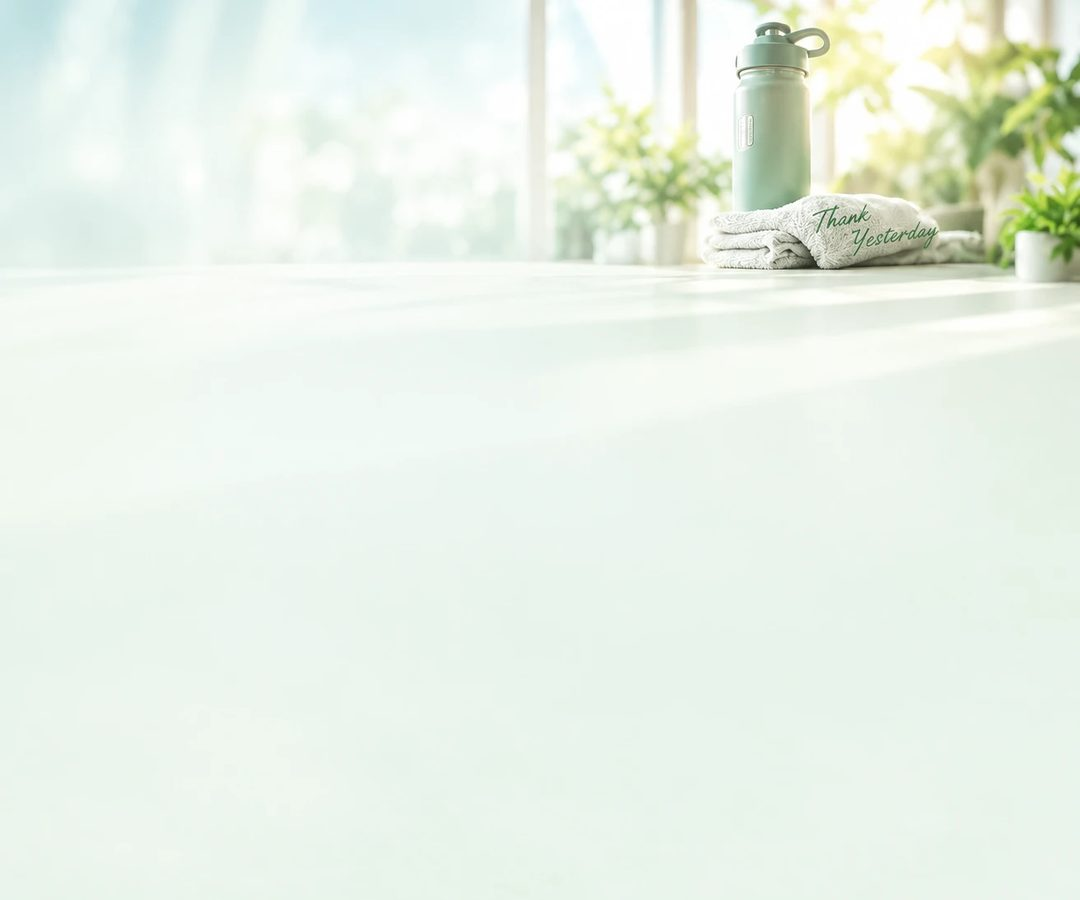
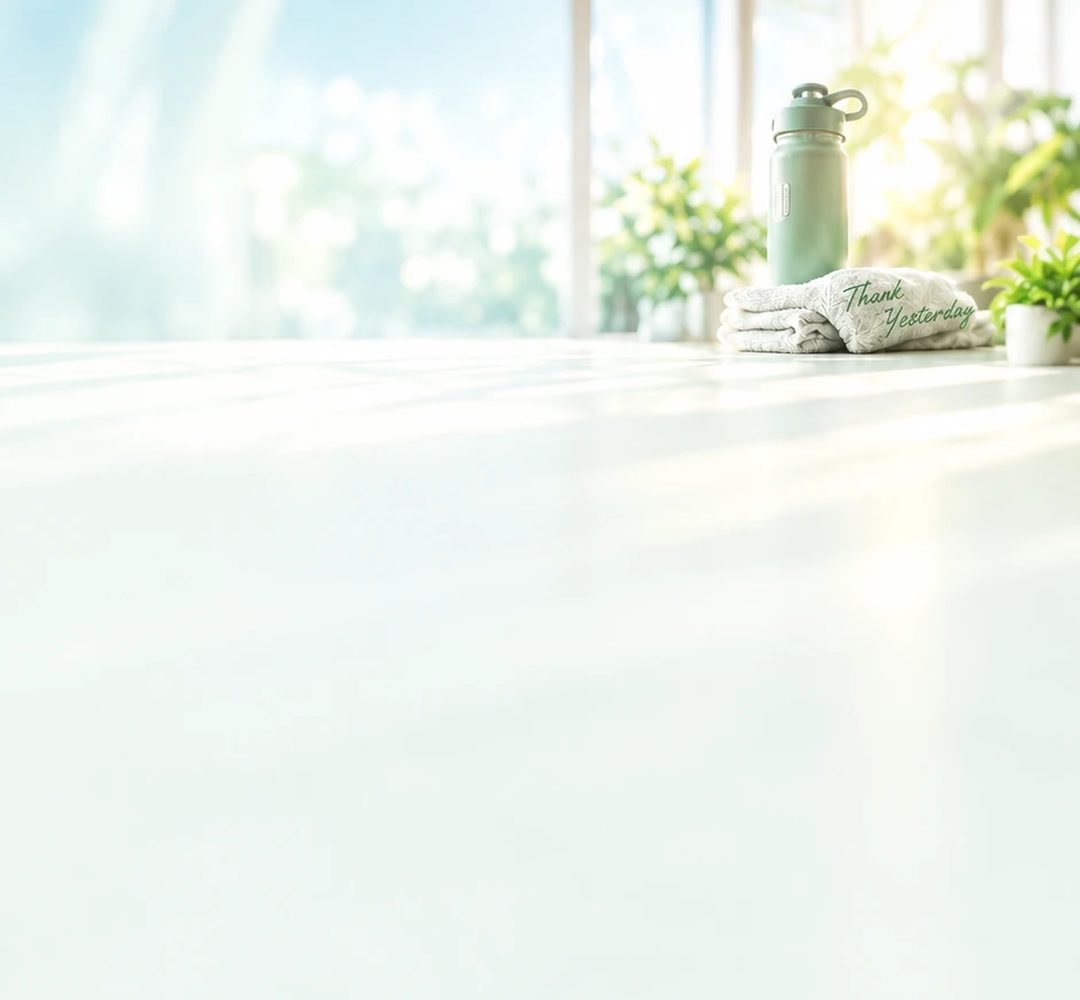
WorkOut Note v2.1.5: グリーンの背景写真を新しい縦長素材に差し替え
- app/img/bg-green.jpg を依頼者提供の縦長写真（1080×1000）に。CSS の位置・被せは据え置き
- 自動テスト 177 件 PASS

diff --git a/docs/html/WorkOutNote_設計書.html b/docs/html/WorkOutNote_設計書.html
@@ -76,7 +76,7 @@ footer{color:var(--ink-2);font-size:12.5px;border-top:1px solid var(--line);padd
 <header class="doc">
   <div class="kicker">WORKOUT NOTE / DESIGN DOCUMENT</div>
   <h1>WorkOut Note 設計書</h1>
-  <div class="meta"><span>対象バージョン：v2.1.4</span><span>作成日：2026-09-17</span><span>関連：構成図・手順書（同フォルダ）、docs/01〜09（経緯と詳細仕様）</span></div>
+  <div class="meta"><span>対象バージョン：v2.1.5</span><span>作成日：2026-09-17</span><span>関連：構成図・手順書（同フォルダ）、docs/01〜09（経緯と詳細仕様）</span></div>
   <p class="lead">このアプリを後から直す人（将来の自分を含む）が、<b>どこに何があり、なぜそう作ったのか</b>を短時間でつかむための文書です。全体像は構成図、操作と運用は手順書を参照してください。</p>
 </header>
 
@@ -376,7 +376,7 @@ store.syncState() / store.onSync(cb) / store.onError(cb) / store.onNotice(cb)</c
   <h2>13. テスト設計</h2>
   <div class="tbl"><table>
     <tr><th>種類</th><th>内容</th></tr>
-    <tr><td>自動テスト</td><td><code>tests/test.html</code> をブラウザで開くと実行（v2.1.4 時点で 177 件、全 PASS）。対象は計算、日付、URL 解析、store の保存・削除・退避、Firestore を模した部品を使った同期（遅れて届くスナップショット、未 ready 時の保存拒否、切替中の保存不可、移行、再接続、ログイン連打など）、設定と Service Worker とルールの整合、記録写真の文字組みと縮小計算。</td></tr>
+    <tr><td>自動テスト</td><td><code>tests/test.html</code> をブラウザで開くと実行（v2.1.5 時点で 177 件、全 PASS）。対象は計算、日付、URL 解析、store の保存・削除・退避、Firestore を模した部品を使った同期（遅れて届くスナップショット、未 ready 時の保存拒否、切替中の保存不可、移行、再接続、ログイン連打など）、設定と Service Worker とルールの整合、記録写真の文字組みと縮小計算。</td></tr>
     <tr><td>独立した手動テスト</td><td>開発とは別の担当が、スマホ幅（320〜430px）と PC 幅で実際に操作。既知のデータを入れて集計値を手計算と照合し、異常入力・戻る操作・両テーマ・誤タップを確認。指摘は修正後に再確認。</td></tr>
     <tr><td>実機・実ログインでの確認（利用者）</td><td>開発側は Google にログインできないため、ログイン後の同期、移行、オフライン記録、iPhone のホーム画面アプリからのログイン、音、ノッチ周りは利用者が確認する（手順書 5章）。</td></tr>
   </table></div>
@@ -410,8 +410,9 @@ store.syncState() / store.onSync(cb) / store.onError(cb) / store.onNotice(cb)</c
     <tr><td>v2.1.2</td><td>ゴールド（青い夕暮れ）・グリーン（明るい窓辺）にも依頼者提供の専用写真。</td></tr>
     <tr><td>v2.1.3</td><td>iPhone で上部の写真が見切れる指摘に対応。ヘッダー領域を高くして写真の被写体が見えてからカードが始まるように。グリーンの最上段の帯を半透明に。</td></tr>
     <tr><td>v2.1.4</td><td>実機と参考画像の比較で修正。v2.1.3 の余白を取り消し、グリーンの被せを薄く、日付・リング・集計カードを参考画像の比率に（380〜479px）。</td></tr>
+    <tr><td>v2.1.5</td><td>グリーンの背景写真を依頼者提供の縦長素材に差し替え（ボトルがタイトル右に見える構図）。</td></tr>
   </table></div>
 </section>
 
-<footer>WorkOut Note 設計書 ／ v2.1.4 時点の内容です。設計を変更した時は本書と改版履歴を更新してください。</footer>
+<footer>WorkOut Note 設計書 ／ v2.1.5 時点の内容です。設計を変更した時は本書と改版履歴を更新してください。</footer>
 </div>

diff --git a/tests/test.html b/tests/test.html
@@ -823,7 +823,7 @@ group('Firebase: 設定・SW・ルールの整合');
 await test('firebaseConfig と SDK の URL', () => { eq(CFG.firebaseConfig.projectId, 'workout-note-b45cd'); eq(CFG.firebaseConfig.authDomain, 'workout-note-b45cd.firebaseapp.com'); ok(/^\d+\.\d+\.\d+$/.test(CFG.SDK_VERSION)); eq(CFG.SDK_BASE, 'https://www.gstatic.com/firebasejs/' + CFG.SDK_VERSION + '/'); eq(CFG.SDK_FILES, ['firebase-app.js', 'firebase-auth.js', 'firebase-firestore.js']); });
 await test('sw.js: SDK バージョンが一致し、新規ファイルがアプリシェルに入っている／API・認証の通信には触らない', async () => {
   const sw = await (await fetch('../app/sw.js', { cache: 'no-store' })).text();
-  eq(sw.match(/const SDK_VERSION = '([^']+)'/)[1], CFG.SDK_VERSION); eq(sw.match(/const CACHE_VERSION = '([^']+)'/)[1], 'v' + D.APP_VERSION); eq(D.APP_VERSION, '2.1.4');
+  eq(sw.match(/const SDK_VERSION = '([^']+)'/)[1], CFG.SDK_VERSION); eq(sw.match(/const CACHE_VERSION = '([^']+)'/)[1], 'v' + D.APP_VERSION); eq(D.APP_VERSION, '2.1.5');
   ['js/firebase-config.js', 'js/auth.js', 'js/store-firebase.js', 'js/migrate.js', 'js/cloud.js', 'js/photo.js', 'js/photo-layout.js', 'js/photo-themes.js', 'img/bg-sunset.jpg', 'img/bg-gold.jpg', 'img/bg-green.jpg'].forEach(f => ok(sw.includes("'" + f + "'"), f + ' が SHELL に無い'));
   const code = sw.split('\n').filter(l => !l.trim().startsWith('//')).join('\n'); ['firestore.googleapis.com', 'identitytoolkit', 'securetoken', 'apis.google.com', 'firebaseapp.com'].forEach(h => ok(!code.includes(h), h + ' を SW のコードで扱っている'));
 });

diff --git a/app/css/app.css b/app/css/app.css
@@ -1,4 +1,4 @@
-/* WorkOut Note v2.1.4 — 3 テーマ（サンセット／ゴールド／グリーン。仕様書09）。基準は mock/ref_v3/home_sunset.png / home_gold_green.png
+/* WorkOut Note v2.1.5 — 3 テーマ（サンセット／ゴールド／グリーン。仕様書09）。基準は mock/ref_v3/home_sunset.png / home_gold_green.png
    v2.1.1: 上部の空に背景写真（--sky-img）＋テーマごとの色の被せ（--sky-overlay）。仕様書09 7章。v2.1.2: ゴールド／グリーン専用写真。v2.1.3→2.1.4: 実機との比較で、見出しの直下からカード行、グリーンの被せを薄く、380〜479px のカード寸法を参考画像に合わせる（仕様書09 9章）
    トークンの考え方: 画面の地 --ground、上部の空 --sky-*、暗い半透明カード --glass-*、紙カード --paper-*、アクセント --accent/--grad、
    カレンダー --cal-*、集計アイコン --chip-*。サブ画面は --surface/--ink/--ink-2/--line（＝--paper-* に割り当て）を参照する */

diff --git a/app/sw.js b/app/sw.js
@@ -1,6 +1,6 @@
 // sw.js — アプリシェルのキャッシュ（stale-while-revalidate）＋ Firebase SDK のキャッシュ（cache-first）。オフライン起動可
 // ファイルを更新したら CACHE_VERSION を上げる（旧キャッシュは activate で削除）
-const CACHE_VERSION = 'v2.1.4';
+const CACHE_VERSION = 'v2.1.5';
 // Firebase JS SDK のバージョン。js/firebase-config.js の SDK_VERSION と必ず揃えること（tests/test.html で一致を検査）
 const SDK_VERSION = '12.19.0';
 const SHELL_CACHE = 'won-shell-' + CACHE_VERSION;

diff --git a/app/js/defaults.js b/app/js/defaults.js
@@ -1,6 +1,6 @@
 // defaults.js — 初期の部位・種目マスタ、設定初期値
 export const APP_NAME = 'WorkOut Note';
-export const APP_VERSION = '2.1.4';   // sw.js の CACHE_VERSION も合わせて上げること
+export const APP_VERSION = '2.1.5';   // sw.js の CACHE_VERSION も合わせて上げること
 
 /** テーマ（端末ごと。localStorage 'won-skin'）。v2.1.0 で 3 種に（仕様書09） */
 export const SKINS = ['sunset', 'gold', 'green'];

diff --git a/CLAUDE.md b/CLAUDE.md
@@ -7,7 +7,7 @@
 - 公開URL: https://tsukujigawa99.github.io/workout-note/ （main へ push → GitHub Actions が `app/` を Pages へ自動デプロイ、1〜2分）
 - リポジトリ: https://github.com/tsukujigawa99/workout-note
 - Firebase プロジェクト: `workout-note-b45cd`（Firestore 東京、Google ログイン）。接続情報は `app/js/firebase-config.js`（公開値）。
-- 現行版: v2.1.4（2026-10-14、3 テーマそれぞれに上部の背景写真 `app/img/bg-{sunset,gold,green}.jpg`。実機比較で上部の構図とカードの大きさを参考画像 `mock/ref_v3/home_green_iphone.jpg` に合わせた）。自動テスト `tests/test.html` 177件 PASS。
+- 現行版: v2.1.5（2026-10-14、グリーンの写真を縦長の新素材に差し替え。3 テーマそれぞれに上部の背景写真 `app/img/bg-{sunset,gold,green}.jpg`。実機比較で上部の構図とカードの大きさを参考画像 `mock/ref_v3/home_green_iphone.jpg` に合わせた）。自動テスト `tests/test.html` 177件 PASS。
 
 ## 体制（依頼者指定・必ず維持）
 - PM／窓口 = メイン会話。依頼者とのやり取り、仕様決定、報告。
